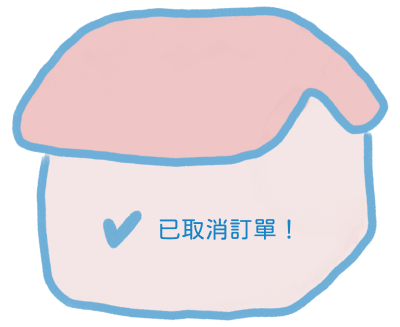
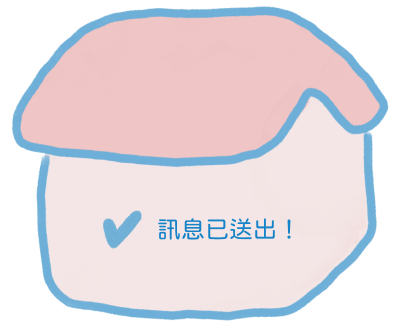
0117_jerry_(popup_done)

Changed region(s): [[0.39, 0.6422, 0.69, 0.7339]]

diff --git a/wan_Project/src/Membership_myOrder.jsx b/wan_Project/src/Membership_myOrder.jsx
@@ -8,26 +8,40 @@ import { Link } from "react-router-dom";
 import Modal_Order_Cancel_Confirm from "./component/Modal_Order_Cancel_Confirm";
 
 export default function Membership_myOrder() {
-  // State 用來控制彈出視窗是否顯示
-  const [isPopupVisible, setIsPopupVisible] = useState(false);
-  const [isSuccessPopupVisible, setIsSuccessPopupVisible] = useState(false); // 控制已取消訂單的彈窗顯示
+  // 狀態管理訂單取消的邏輯
+  const [hiddenButtons, setHiddenButtons] = useState({}); // 用來追蹤每筆訂單的取消按鈕狀態
+  const [popupVisible, setPopupVisible] = useState(false); // 控制彈出視窗顯示
+  const [currentOrderId, setCurrentOrderId] = useState(null); // 當前操作的訂單ID
 
-  // 顯示彈出視窗
-  const showPopup = () => {
-    setIsPopupVisible(true);
+  // 訂單資料 (模擬數據，可以從後端獲取)
+  const orders = [
+    { orderId: 22345, title: "【過年限定】紙韻心意剪紙活動", date: "2025.01.25（六）14:00～16:00", price: "NT$ 500 元/人" },
+    { orderId: 22346, title: "【藝術創作】插花療癒活動", date: "2025.02.05（六）10:00～12:00", price: "NT$ 600 元/人" },
+  ];
+
+  // 顯示取消訂單的彈窗
+  const showPopup = (orderId) => {
+    setCurrentOrderId(orderId);
+    setPopupVisible(true);
   };
 
   // 關閉彈出視窗
   const closePopup = () => {
-    setIsPopupVisible(false);
+    setPopupVisible(false);
   };
 
-  // 顯示已取消訂單的彈窗
-  const showSuccessModal = () => {
-    setIsSuccessPopupVisible(false); // 隱藏彈窗，並且等待2秒後再顯示
+  // 訂單取消成功
+  const handleCancelOrder = () => {
+    setHiddenButtons((prev) => ({ ...prev, [currentOrderId]: true })); // 隱藏取消按鈕
+    setPopupVisible(false); // 關閉彈窗
+
     setTimeout(() => {
-      setIsSuccessPopupVisible(true); // 兩秒後顯示已取消訂單的彈窗
-    }, 200); // 這裡加一點延遲是為了清楚顯示彈窗
+      setShowSuccessModal(true); // 顯示取消成功的彈窗
+    }, 1500);
+
+    setTimeout(() => {
+      setCurrentOrderId(null); // 清除當前訂單ID
+    }, 1500);
   };
 
   return (
@@ -61,126 +75,51 @@ export default function Membership_myOrder() {
               <img src="./src/images/Membership_myOrder/house.png" alt="" />
               <h3>未完成的訂單</h3>
             </figure>
-            <div id='row-event_Order'>
-              <div id='column-event_Order'>
-                <img src="./src/images/Event/event_Image.jpg" alt="" />
-                <small>2025.01.25（六）14:00～16:00</small>
-                <h2>【過年限定】紙韻心意剪紙活動</h2>
-                <p id='p1'>NT$ 500 元/人</p>
-                <hr />
-                <div id='event-Tags'>
-                  <p>#台北市</p>
-                  <p>#藝術創作</p>
+            {orders.map((order) => (
+              <div key={order.orderId} id='row-event_Order'>
+                <div id='column-event_Order'>
+                  <img src="./src/images/Event/event_Image.jpg" alt="" />
+                  <small>{order.date}</small>
+                  <h2>{order.title}</h2>
+                  <p id='p1'>{order.price}</p>
+                  <hr />
+                  <div id='event-Tags'>
+                    <p>#台北市</p>
+                    <p>#藝術創作</p>
+                  </div>
+                </div>
+                <div id="content-Order">
+                  <h2>訂單詳情</h2>
+                  <br />
+                  <p>訂單編號：#{order.orderId}</p>
+                  <p>訂單日期：2024/11/28</p>
+                  <br /><br />
+                  <h2>付款詳情</h2>
+                  <br />
+                  <p>付款方式：Visa (66666)</p>
+                  <p>付款狀態：---</p>
+                  <br />
+                  {!hiddenButtons[order.orderId] && (
+                    <button id="button" onClick={() => showPopup(order.orderId)}>取消訂單</button>
+                  )}
                 </div>
               </div>
-              <div id="content-Order">
-                <h2>訂單詳情</h2>
-                <br />
-                <p>訂單編號：#22345</p>
-                <p>訂單日期：2024/11/28</p>
-                <br /><br />
-                <h2>付款詳情</h2>
-                <br />
-                <p>付款方式：Visa (66666)</p>
-                <p>付款狀態：---</p>
-                <br />
-                <button id="button" onClick={(e) => { e.preventDefault(); showPopup(); }}>取消訂單</button>
-              </div>
-            </div>
-            <div id='row-event_Order'>
-              <div id='column-event_Order'>
-                <img src="./src/images/Event/event_Image.jpg" alt="" />
-                <small>2025.01.25（六）14:00～16:00</small>
-                <h2>【過年限定】紙韻心意剪紙活動</h2>
-                <p id='p1'>NT$ 500 元/人</p>
-                <hr />
-                <div id='event-Tags'>
-                  <p>#台北市</p>
-                  <p>#藝術創作</p>
-                </div>
-              </div>
-              <div id="content-Order">
-                <h2>訂單詳情</h2>
-                <br />
-                <p>訂單編號：#22345</p>
-                <p>訂單日期：2024/11/28</p>
-                <br /><br />
-                <h2>付款詳情</h2>
-                <br />
-                <p>付款方式：Visa (66666)</p>
-                <p>付款狀態：---</p>
-                <br />
-                <button id="button" onClick={(e) => { e.preventDefault(); showPopup(); }}>取消訂單</button>
-              </div>
-            </div>
+            ))}
+
             {/* 彈出視窗顯示的邏輯 */}
-            {isPopupVisible && (
+            {popupVisible && currentOrderId && (
               <Modal_Cancel_Confirm
                 closeModal={closePopup}
-                showSuccessModal={showSuccessModal} // 點擊"是"後顯示成功的彈窗
+                showSuccessModal={handleCancelOrder} // 點擊"是"後觸發取消訂單
               />
             )}
-            {isSuccessPopupVisible && (
-              <Modal_Order_Cancel_Confirm /> // 顯示已取消訂單的彈窗
-            )}
+
+            {/* 顯示已取消訂單的彈窗 */}
+            {hiddenButtons[currentOrderId] && <Modal_Order_Cancel_Confirm />}
           </div>
         </section>
-        <section id="section-uncomplete">
-          <div id="uncomplete_Order">
-            <figure id="title-house">
-              <img src="./src/images/Membership_myOrder/house.png" alt="" />
-              <h3>已完成的訂單</h3>
-            </figure>
-            <div id='row-event_Order'>
-              <div id='column-event_Order'>
-                <img src="./src/images/Event/event_Image.jpg" alt="" />
-                <small>2025.01.25（六）14:00～16:00</small>
-                <h2>【過年限定】紙韻心意剪紙活動</h2>
-                <p id='p1'>NT$ 500 元/人</p>
-                <hr />
-                <div id='event-Tags'>
-                  <p>#台北市</p>
-                  <p>#藝術創作</p>
-                </div>
-              </div>
-              <div id="content-Order">
-                <h2>訂單詳情</h2>
-                <br />
-                <p>訂單編號：#22345</p>
-                <p>訂單日期：2024/11/28</p>
-                <br /><br />
-                <h2>付款詳情</h2>
-                <br />
-                <p>付款方式：Visa (66666)</p>
-                <p>付款狀態：已付款</p>
-              </div>
-            </div>
-            <div id='row-event_Order'>
-              <div id='column-event_Order'>
-                <img src="./src/images/Event/event_Image.jpg" alt="" />
-                <small>2025.01.25（六）14:00～16:00</small>
-                <h2>【過年限定】紙韻心意剪紙活動</h2>
-                <p id='p1'>NT$ 500 元/人</p>
-                <hr />
-                <div id='event-Tags'>
-                  <p>#台北市</p>
-                  <p>#藝術創作</p>
-                </div>
-              </div>
-              <div id="content-Order">
-                <h2>訂單詳情</h2>
-                <br />
-                <p>訂單編號：#22345</p>
-                <p>訂單日期：2024/11/28</p>
-                <br /><br />
-                <h2>付款詳情</h2>
-                <br />
-                <p>付款方式：Visa (66666)</p>
-                <p>付款狀態：已付款</p>
-              </div>
-            </div>
-          </div>
-        </section>
+
+        {/* 其他區塊 */}
         <section id="section-policy">
           <div>
             <h2>參與注意事項</h2>
@@ -203,6 +142,7 @@ export default function Membership_myOrder() {
             <img src="./src/images/Membership_myOrder/boat.png" alt="" />
           </figure>
         </section>
+
         <hr />
         <section id="section-recommend">
           <div id="title-recommend">
@@ -229,6 +169,7 @@ export default function Membership_myOrder() {
           </figure>
         </section>
       </div>
+
       {/* 底部 */}
       <Footer />
     </>

diff --git a/wan_Project/src/component/Footer.jsx b/wan_Project/src/component/Footer.jsx
@@ -5,19 +5,17 @@ export default function Footer() {
     return (
         <>
             <footer id='footer'>
-                <div>
-                    <img src="./src/images/index/footer_wan.png" alt="Footer" />
-                    <div className="footer-text">
-                        <div id='footer-a'>
-                            <Link to="/" onClick={() => window.scrollTo(0, 0)}>首頁</Link>
-                            <Link to="/Event" onClick={() => window.scrollTo(0, 0)}>探索體驗村</Link>
-                            <Link to="/Article_Bay" onClick={() => window.scrollTo(0, 0)}>心途之灣</Link>
-                            <Link to="/Membership_myPage" onClick={() => window.scrollTo(0, 0)}>會員中心</Link>
-                            <Link to="/About" onClick={() => window.scrollTo(0, 0)}>關於我們</Link>
-                            <Link to="/FaqPage" onClick={() => window.scrollTo(0, 0)}>常見問題</Link>
-                        </div>
-                        <small id='copyright'>© 2024 灣 Wan. All rights reserved.</small>
+                <img src="./src/images/index/footer_wan.png" alt="Footer" />
+                <div className="footer-text">
+                    <div id='footer-a'>
+                        <Link to="/" onClick={() => window.scrollTo(0, 0)}>首頁</Link>
+                        <Link to="/Event" onClick={() => window.scrollTo(0, 0)}>探索體驗村</Link>
+                        <Link to="/Article_Bay" onClick={() => window.scrollTo(0, 0)}>心途之灣</Link>
+                        <Link to="/Membership_myPage" onClick={() => window.scrollTo(0, 0)}>會員中心</Link>
+                        <Link to="/About" onClick={() => window.scrollTo(0, 0)}>關於我們</Link>
+                        <Link to="/FaqPage" onClick={() => window.scrollTo(0, 0)}>常見問題</Link>
                     </div>
+                    <small id='copyright'>© 2024 灣 Wan. All rights reserved.</small>
                 </div>
             </footer>
         </>

diff --git a/wan_Project/src/Membership_myPage.jsx b/wan_Project/src/Membership_myPage.jsx
@@ -10,6 +10,18 @@ function Membership_myPage() {
   // State 用來控制彈出視窗是否顯示
   const [isPopupVisible, setIsPopupVisible] = useState(false);
 
+
+  // 顯示彈出視窗
+  const showPopup = () => {
+    // 顯示彈出視窗
+    setIsPopupVisible(true);
+
+    // 設定延遲 3 秒後跳轉
+    setTimeout(() => {
+      window.location.href = '#/Membership_myPage';
+    }, 1500);
+  };
+
   return (
     <>
       <Navbar />
@@ -106,7 +118,7 @@ function Membership_myPage() {
         <div id="info-form3-btn">
           {/* <img src="./src/images/Membership/btn-submit.png" alt="" /> */}
           <li
-            onClick={() => { (e) => { e.preventDefault(); showPopup(); } }}
+            onClick={(e) => { e.preventDefault(); showPopup(); }}
             style={{
               position: 'relative',
               display: 'inline-block',

diff --git a/wan_Project/src/component/Footer_white.jsx b/wan_Project/src/component/Footer_white.jsx
@@ -1,12 +1,12 @@
 import { Link } from "react-router-dom";
 import "./Footer.css";
 
-export default function Footer_white() {
+export default function Footer() {
     return (
         <>
             <footer id='footer'>
-                <div>
-                    <img src="./src/images/index/footer_wan_white.png" alt="Footer" />
+                <img src="./src/images/index/footer_wan_white.png" alt="Footer" />
+                <div className="footer-text">
                     <div id='footer-a'>
                         <Link to="/" onClick={() => window.scrollTo(0, 0)}>首頁</Link>
                         <Link to="/Event" onClick={() => window.scrollTo(0, 0)}>探索體驗村</Link>

diff --git a/wan_Project/src/component/Footer.css b/wan_Project/src/component/Footer.css
@@ -44,7 +44,7 @@
     font-size: 16px;
 }
 
-@media screen and (max-width: 820px) {
+@media (max-width: 1024px) {
     .footer-text {
         flex-direction: column;
         justify-content: center;
@@ -67,7 +67,7 @@
 }
 
 
-@media screen and (max-width: 768px) {
+@media (max-width: 768px) {
     .footer-text {
         flex-direction: column;
         justify-content: center;
@@ -89,7 +89,7 @@
     }
 }
 
-@media screen and (max-width: 390px) {
+@media (max-width: 390px) {
     .footer-text {
         flex-direction: row-reverse;
         justify-content: space-between;

diff --git a/wan_Project/src/component/Modal_Message_Confirm.jsx b/wan_Project/src/component/Modal_Message_Confirm.jsx
@@ -18,7 +18,7 @@ const Modal_Message_Confirm = () => {
       {isVisible && (
         <div className="overlay">
           <div className="Modal_Confirm_popup">
-            <img src="./src/images/Apply_Page/Message_Confirm.png" alt="Popup Image" />
+            <img src="./src/images/Membership/Message_Confirm.png" alt="Popup Image" />
           </div>
         </div>
       )}

diff --git a/wan_Project/src/About.jsx b/wan_Project/src/About.jsx
@@ -1,4 +1,5 @@
 import Btn_goTop from "./component/Btn_goTop";
+import Footer from "./component/Footer";
 import Footer_white from "./component/Footer_white";
 import Navbar from "./component/Navbar";
 import './css/About.css';

diff --git a/wan_Project/src/css/About.css b/wan_Project/src/css/About.css
@@ -84,7 +84,7 @@
     flex-direction: column;
     align-items: center;
     position: absolute;
-    gap: 400px;
+    gap: 300px;
     top: 4800px;
     width: 90%;
     height: 100px;

diff --git a/wan_Project/src/css/Membership_myPage.css b/wan_Project/src/css/Membership_myPage.css
@@ -321,7 +321,3 @@ body {
 	justify-content: center;
 	margin: 50px 0;
 }
-
-#info-form3-btn img {
-	width: 160px;
-}
